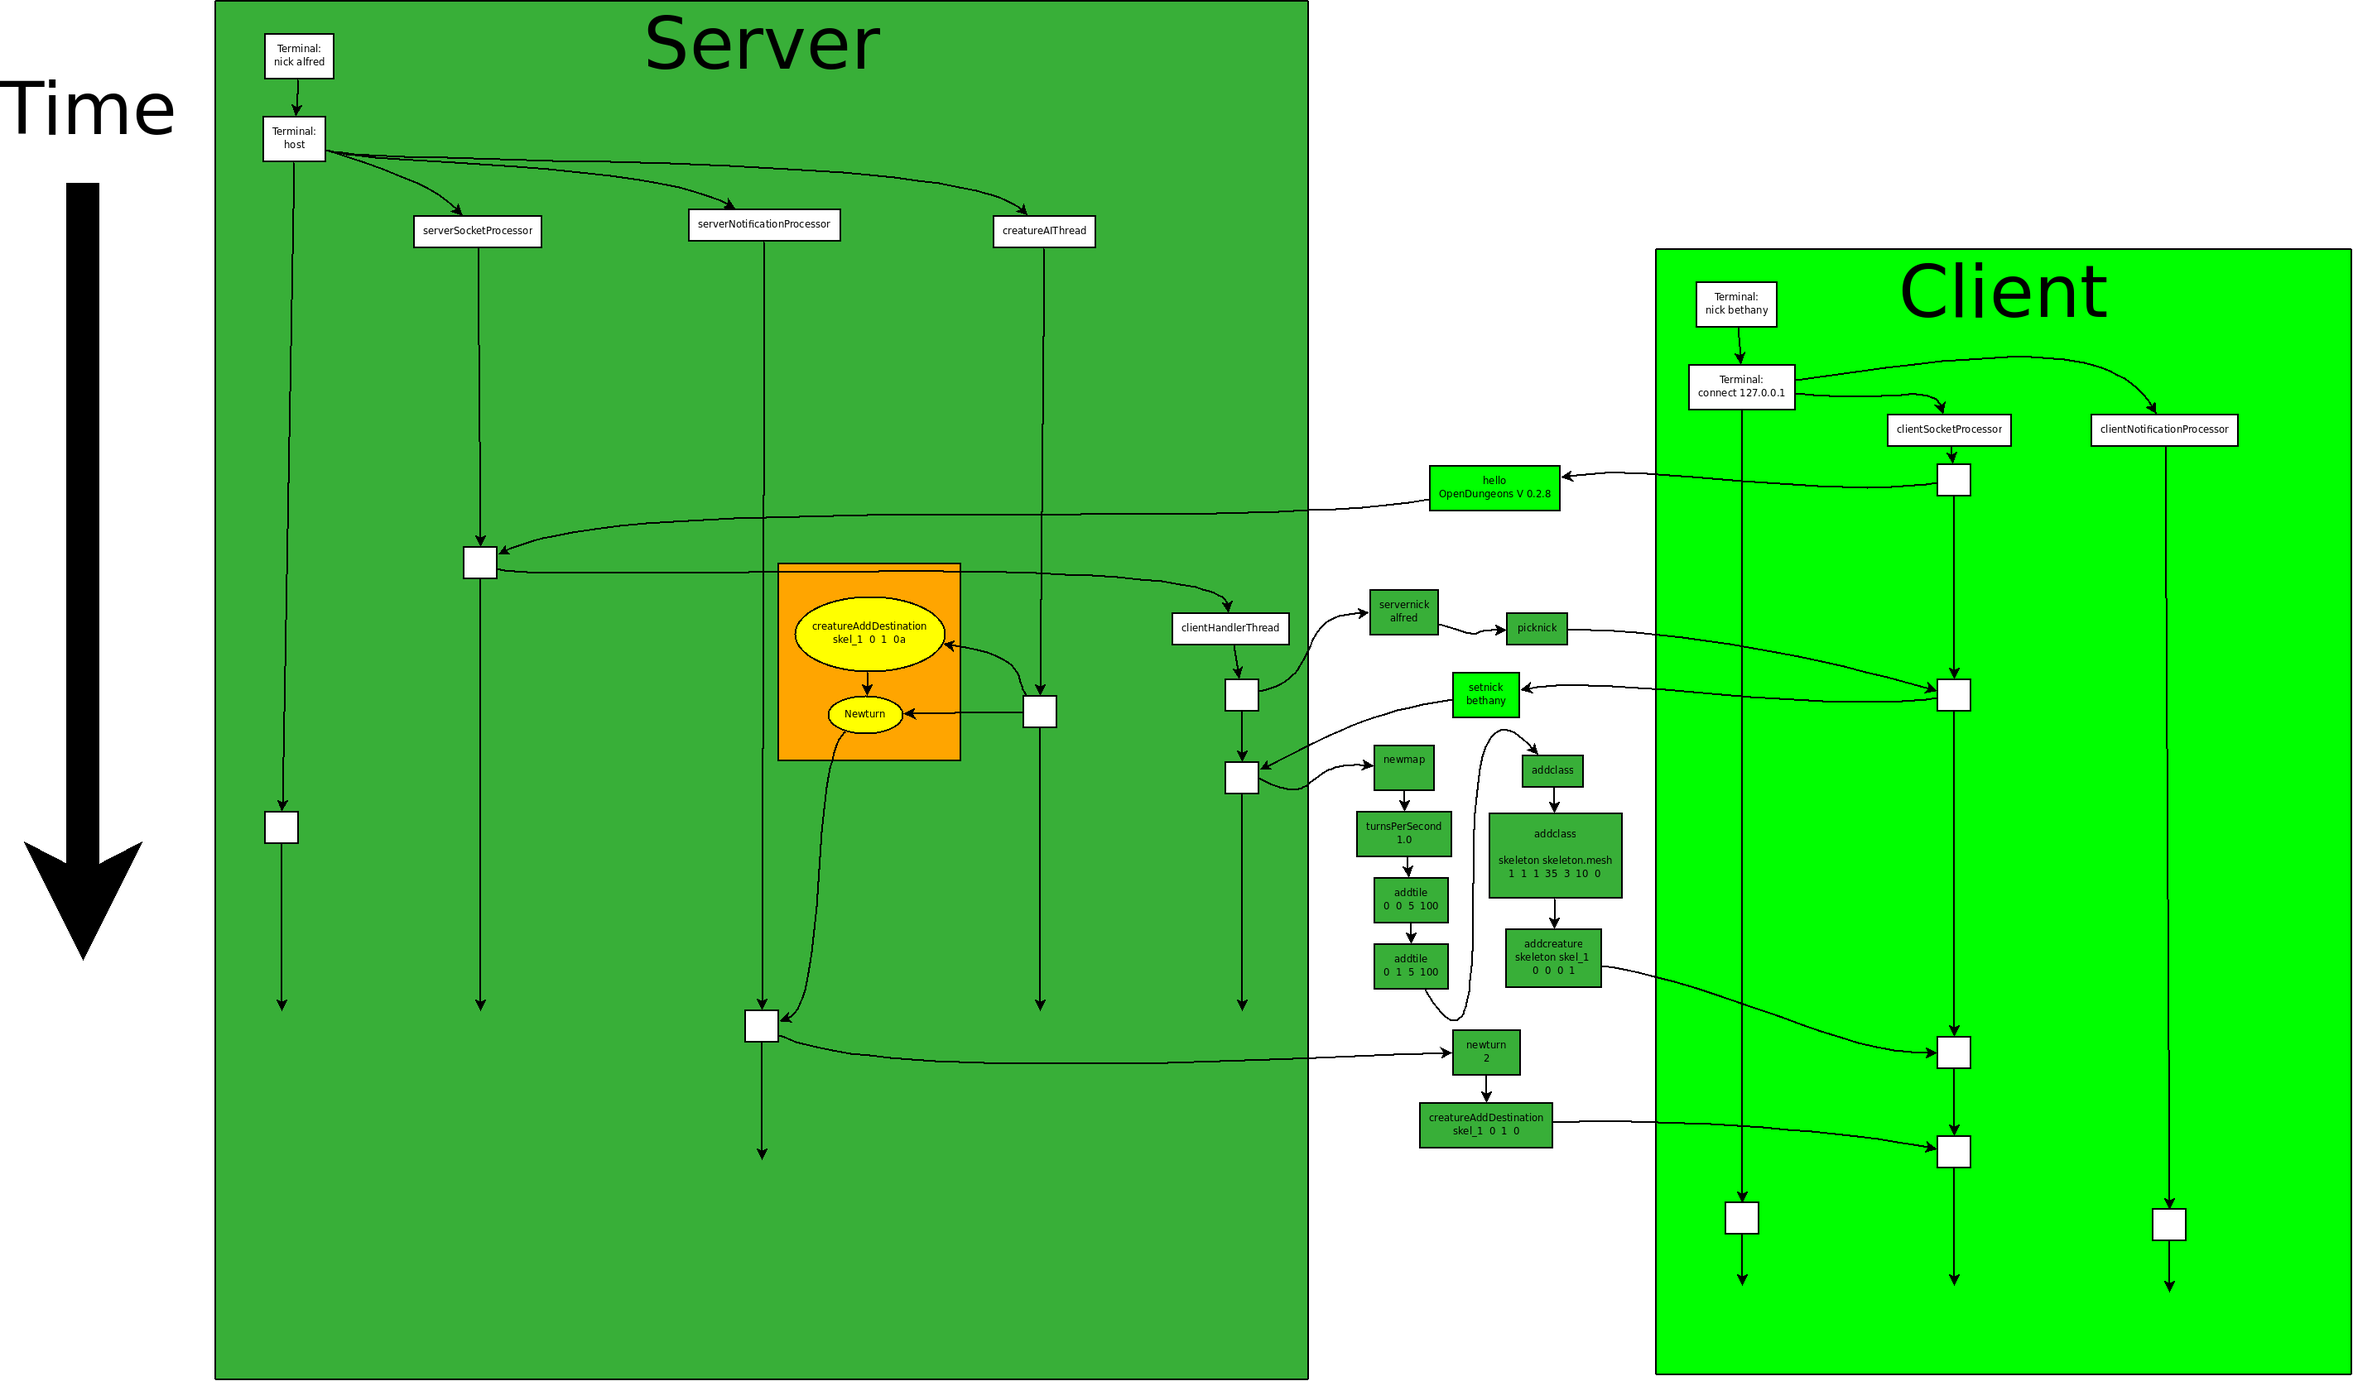
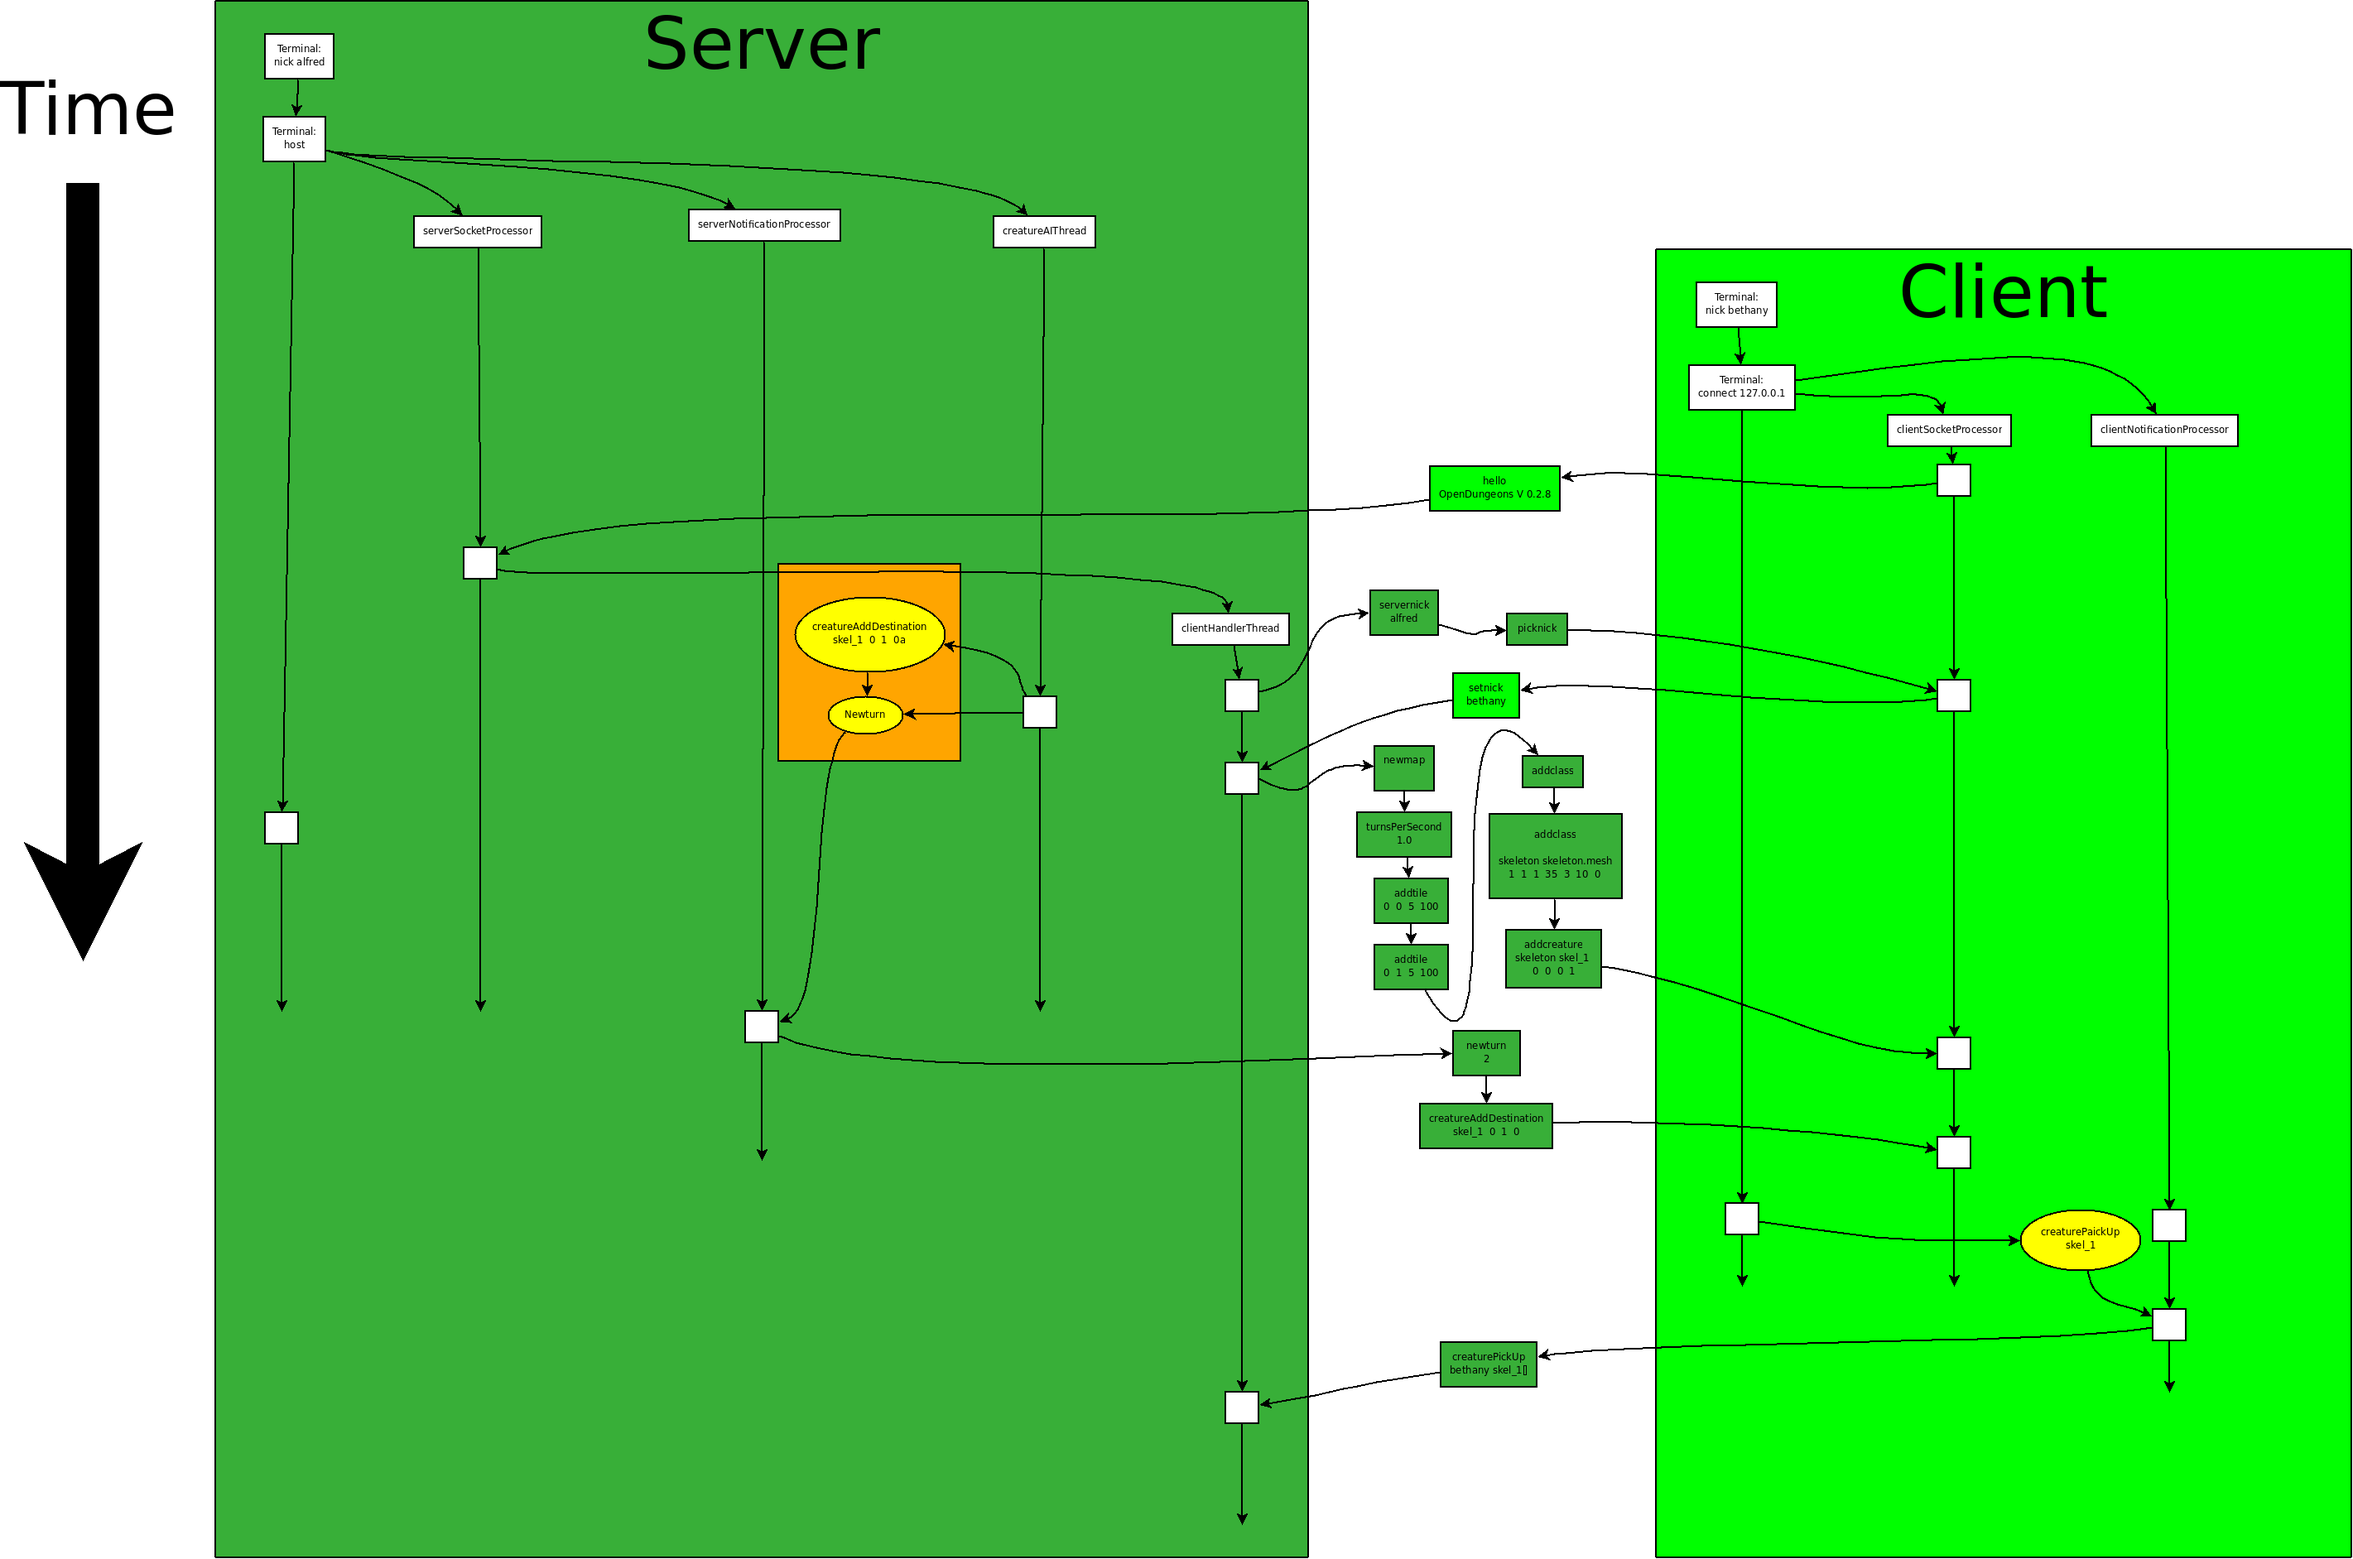
Fix two buffer overflows and more code cleanup.
*  Fix buffer overflow chat message handler in ExampleFrameListener.cpp.
*  Fix buffer overflow in terminal command 'nick'.
*  Making destroyCreature remove the meshes for the creature's weapons.
*  Misc code cleanup.
*  Update Threads.dia to include creature a pick up command.

diff --git a/src/ExampleFrameListener.cpp b/src/ExampleFrameListener.cpp
@@ -292,13 +292,12 @@ bool ExampleFrameListener::frameStarted(const FrameEvent& evt)
 	// Process the queue of render tasks from the other threads
 	while(renderQueue.size() > 0)
 	{
-		char array[255];
 		char meshName[255];
 		string tempString;
 		stringstream tempSS;
 		string tileTypeString;
 		Entity *ent, *weaponL, *weaponR;
-		SceneNode *node, *weaponLNode, *weaponRNode;
+		SceneNode *node;
 		Bone *weaponLBone, *weaponRBone;
 		Node *tempNode;
 		Ogre::Matrix3 boneRot;
@@ -322,19 +321,19 @@ bool ExampleFrameListener::frameStarted(const FrameEvent& evt)
 		{
 			case RenderRequest::refreshTile:
 				curTile = (Tile*)curReq->p;
-				if(mSceneMgr->hasSceneNode( (curTile->name + "_node").c_str() ) )
+				if(mSceneMgr->hasSceneNode(curTile->name + "_node"))
 				{
 					// Unlink and delete the old mesh
-					mSceneMgr->getSceneNode( (curTile->name + "_node").c_str() )->detachObject(curTile->name.c_str());
-					mSceneMgr->destroyEntity(curTile->name.c_str());
+					mSceneMgr->getSceneNode(curTile->name + "_node")->detachObject(curTile->name);
+					mSceneMgr->destroyEntity(curTile->name);
 
 					// Create the new mesh
 					string tileTypeString = Tile::tileTypeToString(curTile->getType());
 					sprintf(meshName, "%s%i.mesh", tileTypeString.c_str(), curTile->getFullnessMeshNumber());
-					ent = mSceneMgr->createEntity(curTile->name.c_str(), meshName);
+					ent = mSceneMgr->createEntity(curTile->name, meshName);
 
 					// Link the tile mesh back to the relevant scene node so OGRE will render it
-					mSceneMgr->getSceneNode((curTile->name + "_node").c_str())->attachObject(ent);
+					mSceneMgr->getSceneNode(curTile->name + "_node")->attachObject(ent);
 					ent->setNormaliseNormals(true);
 				}
 				break;
@@ -344,10 +343,9 @@ bool ExampleFrameListener::frameStarted(const FrameEvent& evt)
 				tileTypeString = Tile::tileTypeToString(curTile->getType());
 
 				sprintf(meshName, "%s%i.mesh", tileTypeString.c_str(), curTile->getFullnessMeshNumber());
-				ent = mSceneMgr->createEntity(curTile->name.c_str(), meshName);
+				ent = mSceneMgr->createEntity(curTile->name, meshName);
 
-				sprintf(array, "%s_node", curTile->name.c_str());
-				node = mSceneMgr->getRootSceneNode()->createChildSceneNode(array);
+				node = mSceneMgr->getRootSceneNode()->createChildSceneNode(curTile->name + "_node");
 				//node->setPosition(Ogre::Vector3(x/BLENDER_UNITS_PER_OGRE_UNIT, y/BLENDER_UNITS_PER_OGRE_UNIT, 0));
 				node->setPosition(Ogre::Vector3(curTile->x, curTile->y, 0));
 				node->setScale(Ogre::Vector3(BLENDER_UNITS_PER_OGRE_UNIT, BLENDER_UNITS_PER_OGRE_UNIT, BLENDER_UNITS_PER_OGRE_UNIT));
@@ -358,16 +356,12 @@ bool ExampleFrameListener::frameStarted(const FrameEvent& evt)
 
 			case RenderRequest::destroyTile:
 				curTile = (Tile*)curReq->p;
-				if(mSceneMgr->hasEntity(curTile->name.c_str()))
+				if(mSceneMgr->hasEntity(curTile->name))
 				{
-					//cout << "\nDestroying tile: (" << curTile->x << ", " << curTile->y << ")";
-					//cout.flush();
-
-					ent = mSceneMgr->getEntity(curTile->name.c_str());
-					node = mSceneMgr->getSceneNode((curTile->name + "_node").c_str());
-					//mSceneMgr->getRootSceneNode()->detachObject((curTile->name + "_node").c_str());
+					ent = mSceneMgr->getEntity(curTile->name);
+					node = mSceneMgr->getSceneNode(curTile->name + "_node");
 					node->detachAllObjects();
-					mSceneMgr->destroySceneNode((curTile->name + "_node").c_str());
+					mSceneMgr->destroySceneNode(curTile->name + "_node");
 					mSceneMgr->destroyEntity(ent);
 				}
 				break;
@@ -446,13 +440,27 @@ bool ExampleFrameListener::frameStarted(const FrameEvent& evt)
 
 			case RenderRequest::destroyCreature:
 				curCreature = (Creature*)curReq->p;
-				if(mSceneMgr->hasEntity( ("Creature_" + curCreature->name).c_str() ))
+				if(mSceneMgr->hasEntity("Creature_" + curCreature->name))
 				{
+					if(curCreature->weaponL.compare("none") != 0)
+					{
+						ent = mSceneMgr->getEntity("Creature_weaponL_" + curCreature->name);
+						//ent->getParentNode()->removeChild("Creature_weaponL_" + curCreature->name);
+						mSceneMgr->destroyEntity(ent);
+					}
+
+					if(curCreature->weaponR.compare("none") != 0)
+					{
+						ent = mSceneMgr->getEntity("Creature_weaponR_" + curCreature->name);
+						//ent->getParentNode()->removeChild("Creature_weaponR_" + curCreature->name);
+						mSceneMgr->destroyEntity(ent);
+					}
+
 					ent = mSceneMgr->getEntity("Creature_" + curCreature->name);
 					node = mSceneMgr->getSceneNode(curCreature->name + "_node");
-					node->detachObject( ent );
-					creatureSceneNode->removeChild( node );
-					mSceneMgr->destroyEntity( ent );
+					node->detachObject(ent);
+					creatureSceneNode->removeChild(node);
+					mSceneMgr->destroyEntity(ent);
 					mSceneMgr->destroySceneNode(curCreature->name + "_node");
 				}
 				break;
@@ -506,7 +514,7 @@ bool ExampleFrameListener::frameStarted(const FrameEvent& evt)
 
 					tempString = "";
 					tempSS.str(tempString);
-					tempSS << "Creature_vision_" << curCreature->name.c_str() << "_" << curTile->x << "_" << curTile->y;
+					tempSS << "Creature_vision_" << curCreature->name << "_" << curTile->x << "_" << curTile->y;
 
 					ent = mSceneMgr->createEntity( tempSS.str(), "Cre_vision_indicator.mesh");
 					node = creatureSceneNode->createChildSceneNode( tempSS.str() + "_node" );
@@ -523,7 +531,7 @@ bool ExampleFrameListener::frameStarted(const FrameEvent& evt)
 
 				tempString = "";
 				tempSS.str(tempString);
-				tempSS << "Creature_vision_" << curCreature->name.c_str() << "_" << curTile->x << "_" << curTile->y;
+				tempSS << "Creature_vision_" << curCreature->name << "_" << curTile->x << "_" << curTile->y;
 
 				//cout << "\ntrying to Destroy visdebug:  " << meshName;
 				//cout.flush();
@@ -546,9 +554,9 @@ bool ExampleFrameListener::frameStarted(const FrameEvent& evt)
 				curCreature = (Creature*)curReq->p;
 				ent = mSceneMgr->getEntity("Creature_" + curCreature->name);
 
-				if(ent->hasSkeleton() && ent->getSkeleton()->hasAnimation(curReq->str.c_str()))
+				if(ent->hasSkeleton() && ent->getSkeleton()->hasAnimation(curReq->str))
 				{
-					curCreature->animationState = ent->getAnimationState(curReq->str.c_str());
+					curCreature->animationState = ent->getAnimationState(curReq->str);
 					curCreature->animationState->setLoop(true);
 					curCreature->animationState->setEnabled(true);
 				}
@@ -605,10 +613,11 @@ bool ExampleFrameListener::frameStarted(const FrameEvent& evt)
 	// Fill up the chat window with the arrival time and contents of all the chat messages left in the queue.
 	for(unsigned int i = 0; i < chatMessages.size(); i++)
 	{
-		char tempArray[255];
 		struct tm *friendlyTime = localtime(&chatMessages[i]->recvTime);
-		sprintf(tempArray, "%i:%02i:%02i  %s: %s", friendlyTime->tm_hour, friendlyTime->tm_min, friendlyTime->tm_sec, chatMessages[i]->clientNick.c_str(), chatMessages[i]->message.c_str());
-		chatString += (string)tempArray + "\n";
+		string tempString = "";
+		stringstream tempSS(tempString);
+		tempSS << friendlyTime->tm_hour << ":" << friendlyTime->tm_min << ":" << friendlyTime->tm_sec << "  " << chatMessages[i]->clientNick << chatMessages[i]->message;
+		chatString += tempSS.str() + "\n";
 	}
 
 	// Display the termianl, the current turn number, and the
@@ -1169,6 +1178,8 @@ bool ExampleFrameListener::keyPressed(const OIS::KeyEvent &arg)
 {
 	using namespace OIS;
 	char tempArray[255];
+	string tempString;
+	stringstream tempSS;
 
 	CEGUI::System *sys = CEGUI::System::getSingletonPtr();
 	sys->injectKeyDown(arg.key);
@@ -1250,8 +1261,10 @@ bool ExampleFrameListener::keyPressed(const OIS::KeyEvent &arg)
 				if(serverSocket == NULL && clientSocket == NULL)
 				{
 					mCurrentTileType = Tile::nextTileType(mCurrentTileType);
-					sprintf(tempArray, "Tile type:  %s", Tile::tileTypeToString(mCurrentTileType).c_str());
-					MOTD = tempArray;
+					tempString = "";
+					tempSS.str(tempString);
+					tempSS << "Tile type:  " << Tile::tileTypeToString(mCurrentTileType);
+					MOTD = tempSS.str();
 				}
 				break;
 
@@ -1580,15 +1593,16 @@ void ExampleFrameListener::executePromptCommand()
 		{
 			if(arguments.size() > 0)
 			{
+				//FIXME:  This will likely crash if a non-existant level name is given
 				gameMap.clearAll();
 
-				string tempString;
-				char tempArray[255];
-				tempString = "Media/levels/" + arguments + ".level";
+				string tempString = "Media/levels/" + arguments + ".level";
 				readGameMapFromFile(tempString);
 
-				sprintf(tempArray, "Successfully loaded file:  %s\nNum tiles:  %i\nNum class descriptions:  %i\nNum creatures:  %i", tempString.c_str(), gameMap.numTiles(), gameMap.numClassDescriptions(), gameMap.numCreatures());
-				commandOutput = tempArray;
+				string tempString2 = "";
+				stringstream tempSS(tempString2);
+				tempSS << "Successfully loaded file:  " << tempString << "\nNum tiles:  " << gameMap.numTiles() << "\nNum classes:  " << gameMap.numClassDescriptions() << "\nNum creatures:  " << gameMap.numCreatures();
+				commandOutput = tempSS.str();
 
 				gameMap.createAllEntities();
 			}
@@ -1859,7 +1873,7 @@ void ExampleFrameListener::executePromptCommand()
 					gameMap.addCreature(tempCreature);
 
 					// Create the mesh and SceneNode for the new creature
-					Entity *ent = mSceneMgr->createEntity( ("Creature_" + tempCreature->name).c_str(), tempCreature->meshName.c_str());
+					Entity *ent = mSceneMgr->createEntity("Creature_" + tempCreature->name, tempCreature->meshName);
 					SceneNode *node = creatureSceneNode->createChildSceneNode(tempCreature->name + "_node");
 					//node->setPosition(tempCreature->getPosition()/BLENDER_UNITS_PER_OGRE_UNIT);
 					node->setPosition(tempCreature->getPosition());
@@ -1964,18 +1978,23 @@ void ExampleFrameListener::executePromptCommand()
 		// Set your nickname
 		else if(command.compare("nick") == 0)
 		{
-			char tempArray[255];
+			string tempString;
 			if(arguments.size() > 0)
 			{
 				tempSS.str(arguments);
 				tempSS >> gameMap.me->nick;
-				sprintf(tempArray, "Nickname set to %s", gameMap.me->nick.c_str());
-				commandOutput = tempArray;
+
+				tempString = "";
+				tempSS.str(tempString);
+				tempSS << "Nickname set to:  " << gameMap.me->nick;
+				commandOutput = tempSS.str();
 			}
 			else
 			{
-				sprintf(tempArray, "Current nickname is %s", gameMap.me->nick.c_str());
-				commandOutput = tempArray;
+				tempString = "";
+				tempSS.str(tempString);
+				tempSS << "Nickname set to:  " << gameMap.me->nick;
+				commandOutput = tempSS.str();
 			}
 		}
 

diff --git a/src/Server.cpp b/src/Server.cpp
@@ -348,7 +348,7 @@ void *clientHandlerThread(void *p)
 		// If the client closed the connection
 		if(charsRead <= 0)
 		{
-			frameListener->chatMessages.push_back(new ChatMessage("SERVER_INFORMATION", "Client disconnect: " + clientNick, time(NULL)));
+			frameListener->chatMessages.push_back(new ChatMessage("SERVER_INFORMATION: ", "Client disconnect: " + clientNick, time(NULL)));
 			break;
 		}
 
@@ -374,7 +374,7 @@ void *clientHandlerThread(void *p)
 		if(clientCommand.compare("hello") == 0)
 		{
 			stringstream tempSS;
-			frameListener->chatMessages.push_back(new ChatMessage("SERVER_INFORMATION", "Client connect with version: " + arguments, time(NULL)));
+			frameListener->chatMessages.push_back(new ChatMessage("SERVER_INFORMATION: ", "Client connect with version: " + arguments, time(NULL)));
 
 			// Tell the client to give us their nickname and to clear their map
 			sem_wait(&curSock->semaphore);
@@ -385,7 +385,7 @@ void *clientHandlerThread(void *p)
 			//TODO:  verify that this really is true
 			curSock->recv(tempString);
 			parseCommand(tempString, tempString2, clientNick);
-			frameListener->chatMessages.push_back(new ChatMessage("SERVER_INFORMATION", "Client nick is: " + clientNick, time(NULL)));
+			frameListener->chatMessages.push_back(new ChatMessage("SERVER_INFORMATION: ", "Client nick is: " + clientNick, time(NULL)));
 
 			// Create a player structure for the client
 			//TODO:  negotiate and set a color

diff --git a/src/Client.cpp b/src/Client.cpp
@@ -48,7 +48,7 @@ void *clientSocketProcessor(void *p)
 			{
 				// Place a chat message in the queue to inform
 				// the user about the disconnect
-				frameListener->chatMessages.push_back(new ChatMessage("SERVER_INFORMATION", "Server disconnect." , time(NULL)));
+				frameListener->chatMessages.push_back(new ChatMessage("SERVER_INFORMATION: ", "Server disconnect." , time(NULL)));
 
 				return NULL;
 			}
